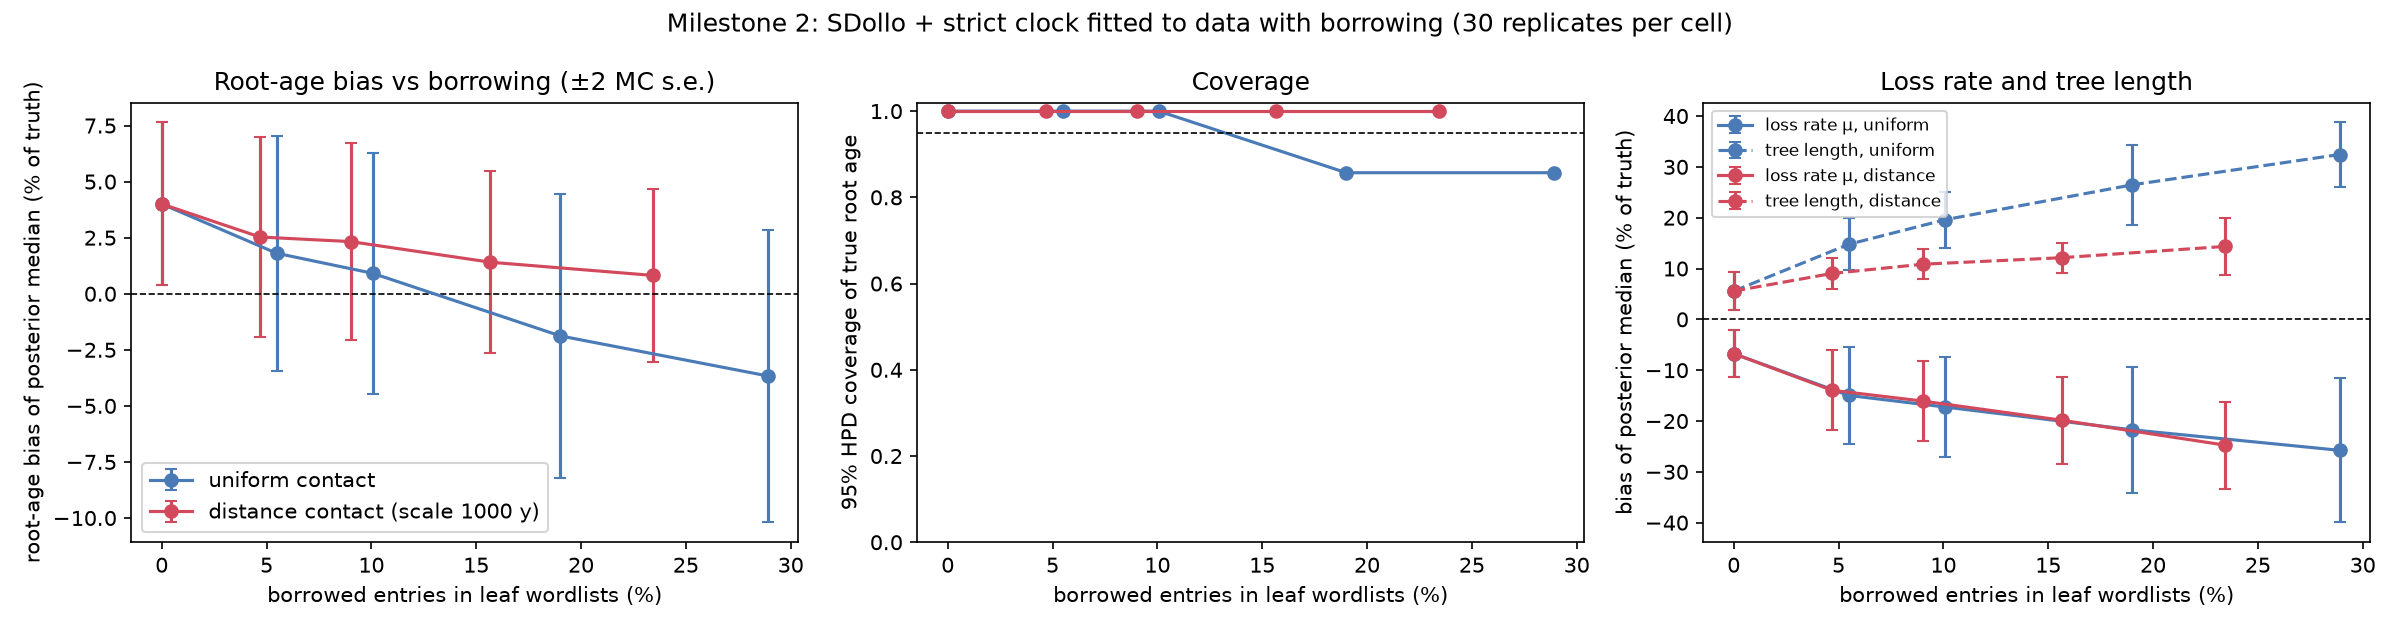
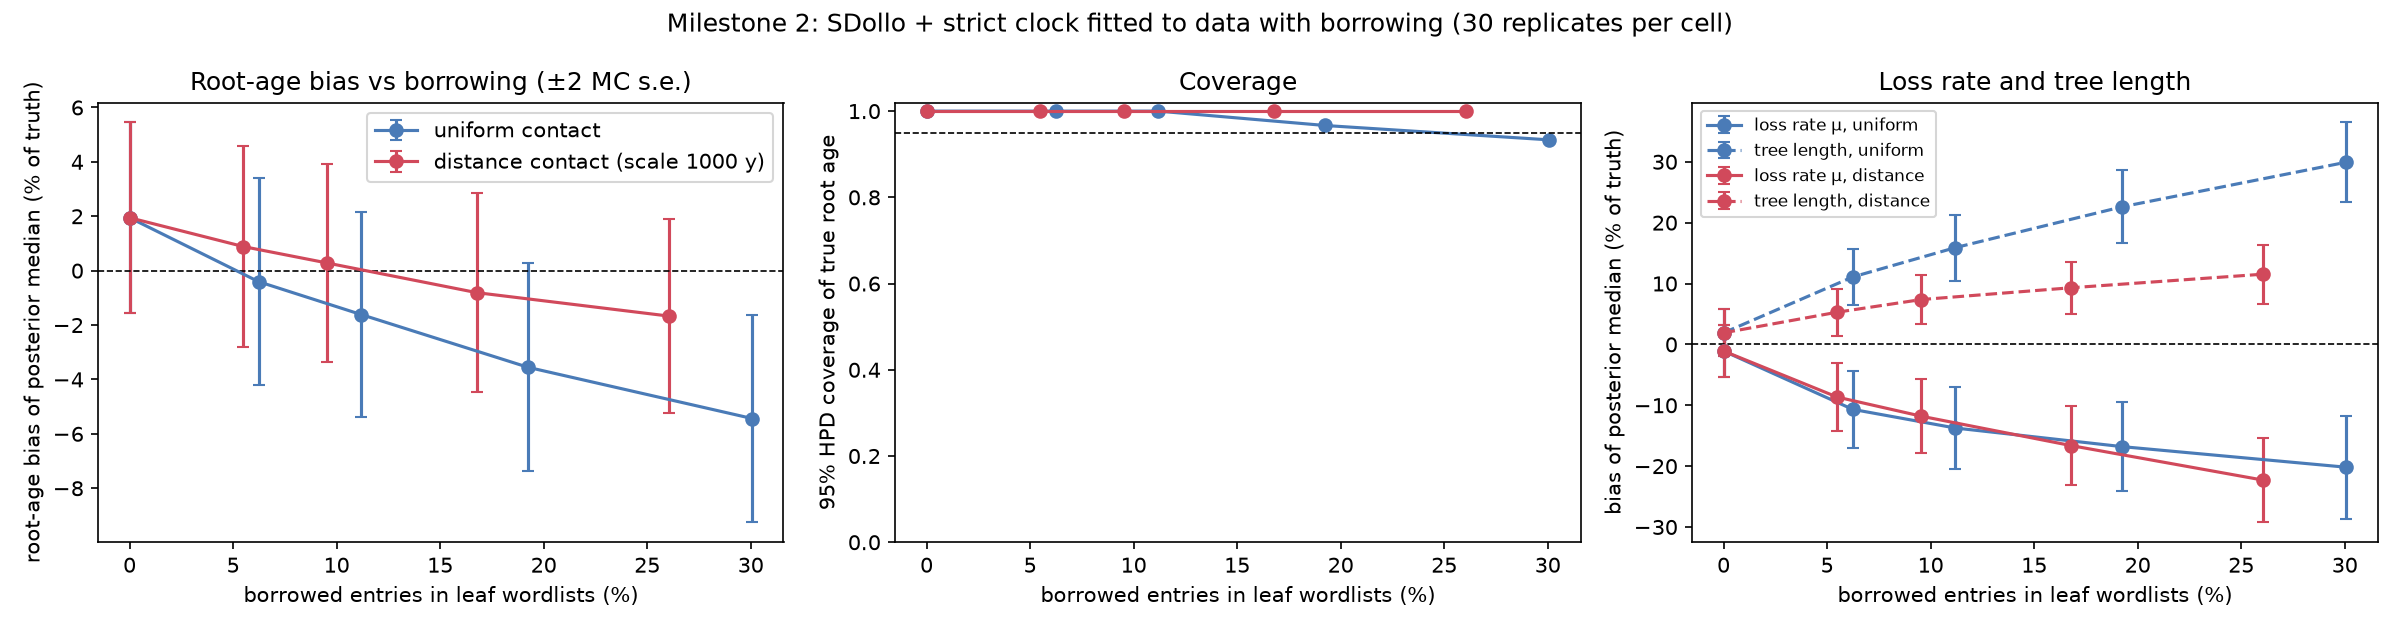
Milestone 2 results: bias curve from unmodelled borrowing

diff --git a/README.md b/README.md
@@ -10,7 +10,7 @@ The full project design is kept privately.
 |---|---|
 | 0. Environment, CLDF pipeline, Mayan data, BEAST2 | done |
 | 1. Simulator (no borrowing) + BEAST2 calibration | **strict clock: done** (100 replicates, below). Relaxed clock: `babelfix` written and passes the likelihood debug check; coverage study not yet run (`make m1-relaxed`) |
-| 2. Bias curve vs borrowing rate, two contact models | simulator done and tested; 270 BEAST2 fits running (`make m2`) |
+| 2. Bias curve vs borrowing rate, two contact models | **done** (below) |
 | 3. Phoneme strings + pair HMM, ROC | **done** (below) |
 | 4. Latent-donor correction | masking pipeline done; oracle vs detector refits queued. Latent-donor (level 2) model written but **does not beat level 1 yet** (below) |
 | 5. Mayan application | data built (ASJP core vocabulary, 31 languages, LexStat cognates). Draft calibrations in `infer/beast/m5_mayan_prior.json` **awaiting review**; 5 BEAST2 variants queued (`scripts/m5_mayan.py`) |
@@ -36,6 +36,44 @@ tree length much more than the absolute root. The milestone 2 summary
 therefore also reports bias in μ and tree length.
 
 ![](figures/m1_coverage_strict.png)
+
+### Milestone 2: bias from unmodelled borrowing
+
+`make m2`: 30 replicates per cell, with truth drawn from the milestone 1
+strict prior. Data are simulated with replacement borrowing at rate κ·μ
+(κ = 0.25–2) under uniform or distance-weighted contact (e-folding at 1000 y
+of patristic distance). Every fit uses the no-borrowing SDollo model.
+Replicate *i* shares its tree and parameters across cells, so the **paired
+Δ** (shift against the same replicate's κ = 0 fit) is the precise measure.
+
+| Contact | Borrowed entries | Root age, paired Δ (± s.e.) | Root 95% HPD coverage | Loss rate μ bias | Tree length bias |
+|---|---|---|---|---|---|
+| — | 0% | 0 | 1.00 | −1% | +2% |
+| uniform | 6% | −2.4% ± 0.5 | 1.00 | −11% | +11% |
+| uniform | 11% | −3.6% ± 0.6 | 1.00 | −14% | +16% |
+| uniform | 19% | −5.5% ± 0.7 | 0.97 | −17% | +23% |
+| uniform | 30% | −7.4% ± 0.8 | 0.93 | −20% | +30% |
+| distance | 6% | −1.1% ± 0.4 | 1.00 | −9% | +5% |
+| distance | 10% | −1.7% ± 0.4 | 1.00 | −12% | +7% |
+| distance | 17% | −2.8% ± 0.4 | 1.00 | −17% | +9% |
+| distance | 26% | −3.6% ± 0.5 | 1.00 | −22% | +12% |
+
+* **Direction.** Unmodelled borrowing makes the root *younger* and the loss
+  rate *lower*, and both effects grow steadily with the borrowing rate.
+  Tree length goes *up* while the root goes down, so internal nodes move
+  towards the root: the tree looks more star-like.
+* **Contact model.** Borrowing between near neighbours does about half the
+  damage to the root and tree length. The prediction that close and distant
+  borrowing bias dates in *opposite* directions is not borne out at these
+  settings: both push the same way.
+* **Size.** The root-age bias is small here because the root has a tight
+  calibration prior (N(4000, 500); milestone 1 showed the data barely narrow
+  it). The distortion shows up instead in μ (up to −22%) and tree length (up
+  to +30%). **Next experiment:** calibrate internal nodes and leave the root
+  vague, as in real analyses (milestone 5), to see how much of the μ bias
+  turns into root-age bias.
+
+![](figures/m2_bias_curve.png)
 
 ### Milestone 3: form-level detection (pair HMM)
 
